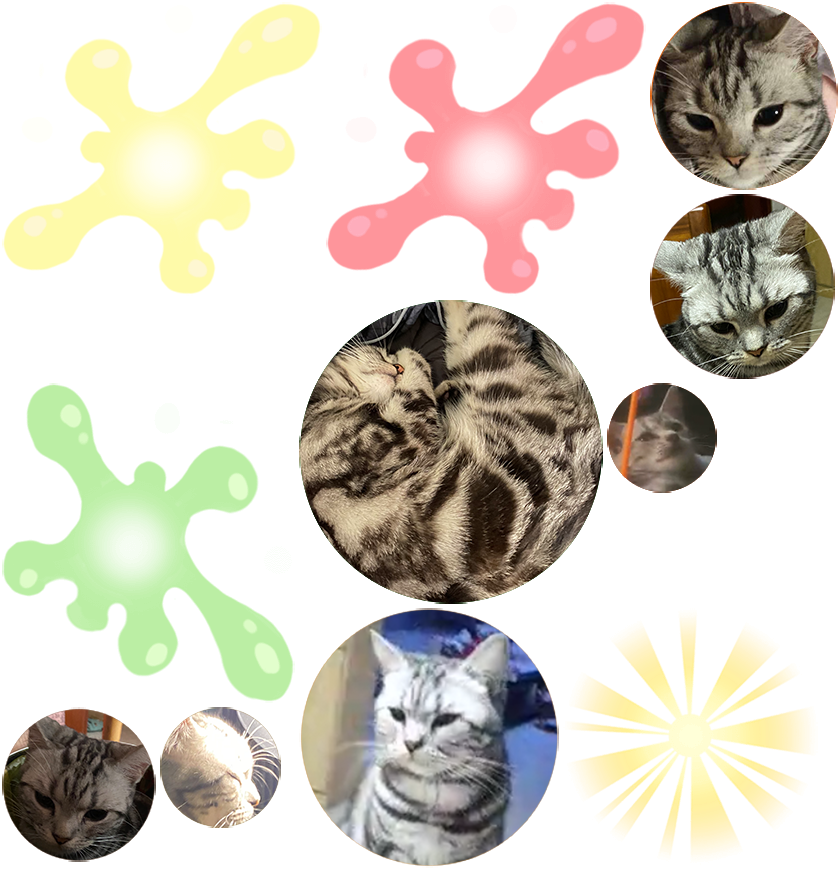
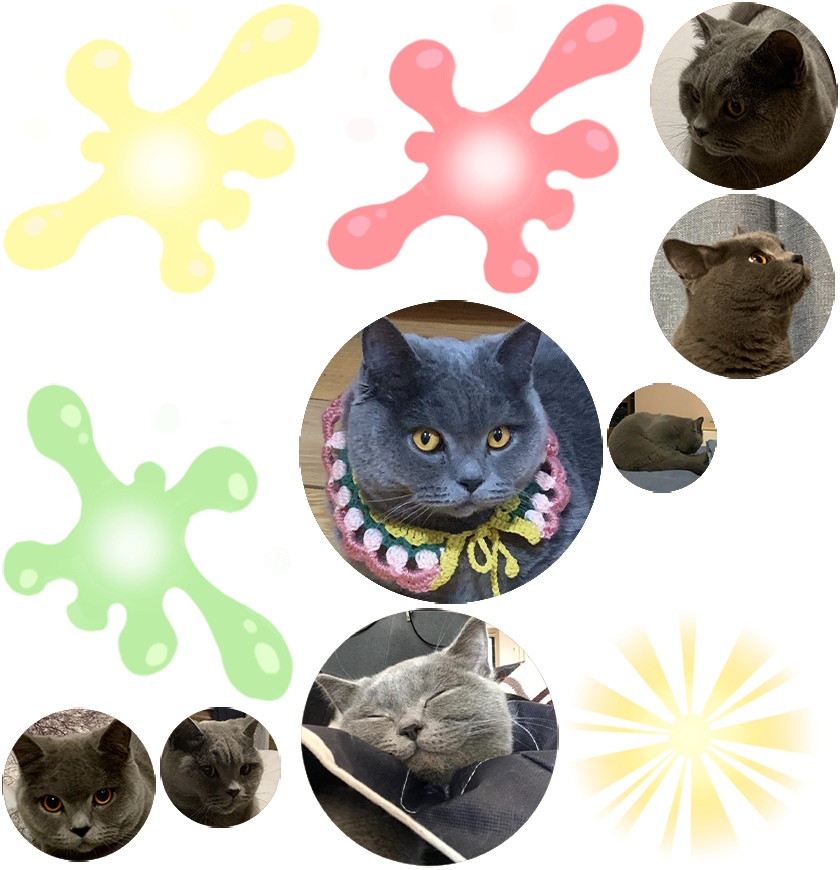
mimimimimimimi

Changed region(s): [[0.0, 0.0, 1.0, 1.0]]

diff --git a/Downloads/sannaha.github.io-master/index.html b/Downloads/sannaha.github.io-master/index.html
@@ -4,7 +4,7 @@
 <head>
     <meta charset="utf-8">
 
-    <title>合成大小猫</title>
+    <title>咪一米养成记</title>
 
     <!--http://www.html5rocks.com/en/mobile/mobifying/-->
     <meta name="viewport" content="width=device-width,user-scalable=no,initial-scale=1, minimum-scale=1,maximum-scale=1" />
@@ -109,7 +109,7 @@
             //        console.log("window.navigator.language",window.navigator.language);
 
             if (window.navigator.language == "zh-CN" || window.navigator.language == "zh-cn") {
-                document.title = "合成大小猫";
+                document.title = "咪一米养成记";
             } 
 
 

diff --git a/Downloads/sannaha.github.io-master/README.md b/Downloads/sannaha.github.io-master/README.md
@@ -1,4 +1,3 @@
-# 合成大欧派（P家） #
+# 合成大小猫 #
 
-合成大西瓜的P家版本。合成顺序为：暗妃鲁咪蕾->古守血游->真白花音->铃宫铃->椎名菜羽->有栖Mana->乙女音->绯赤艾莉欧->花园Serena->梦乃栞->紫桃爱音。如对合成顺序有异议，请提交申请与我们一同迫害。
-
+对某只无辜小猫的迫害
